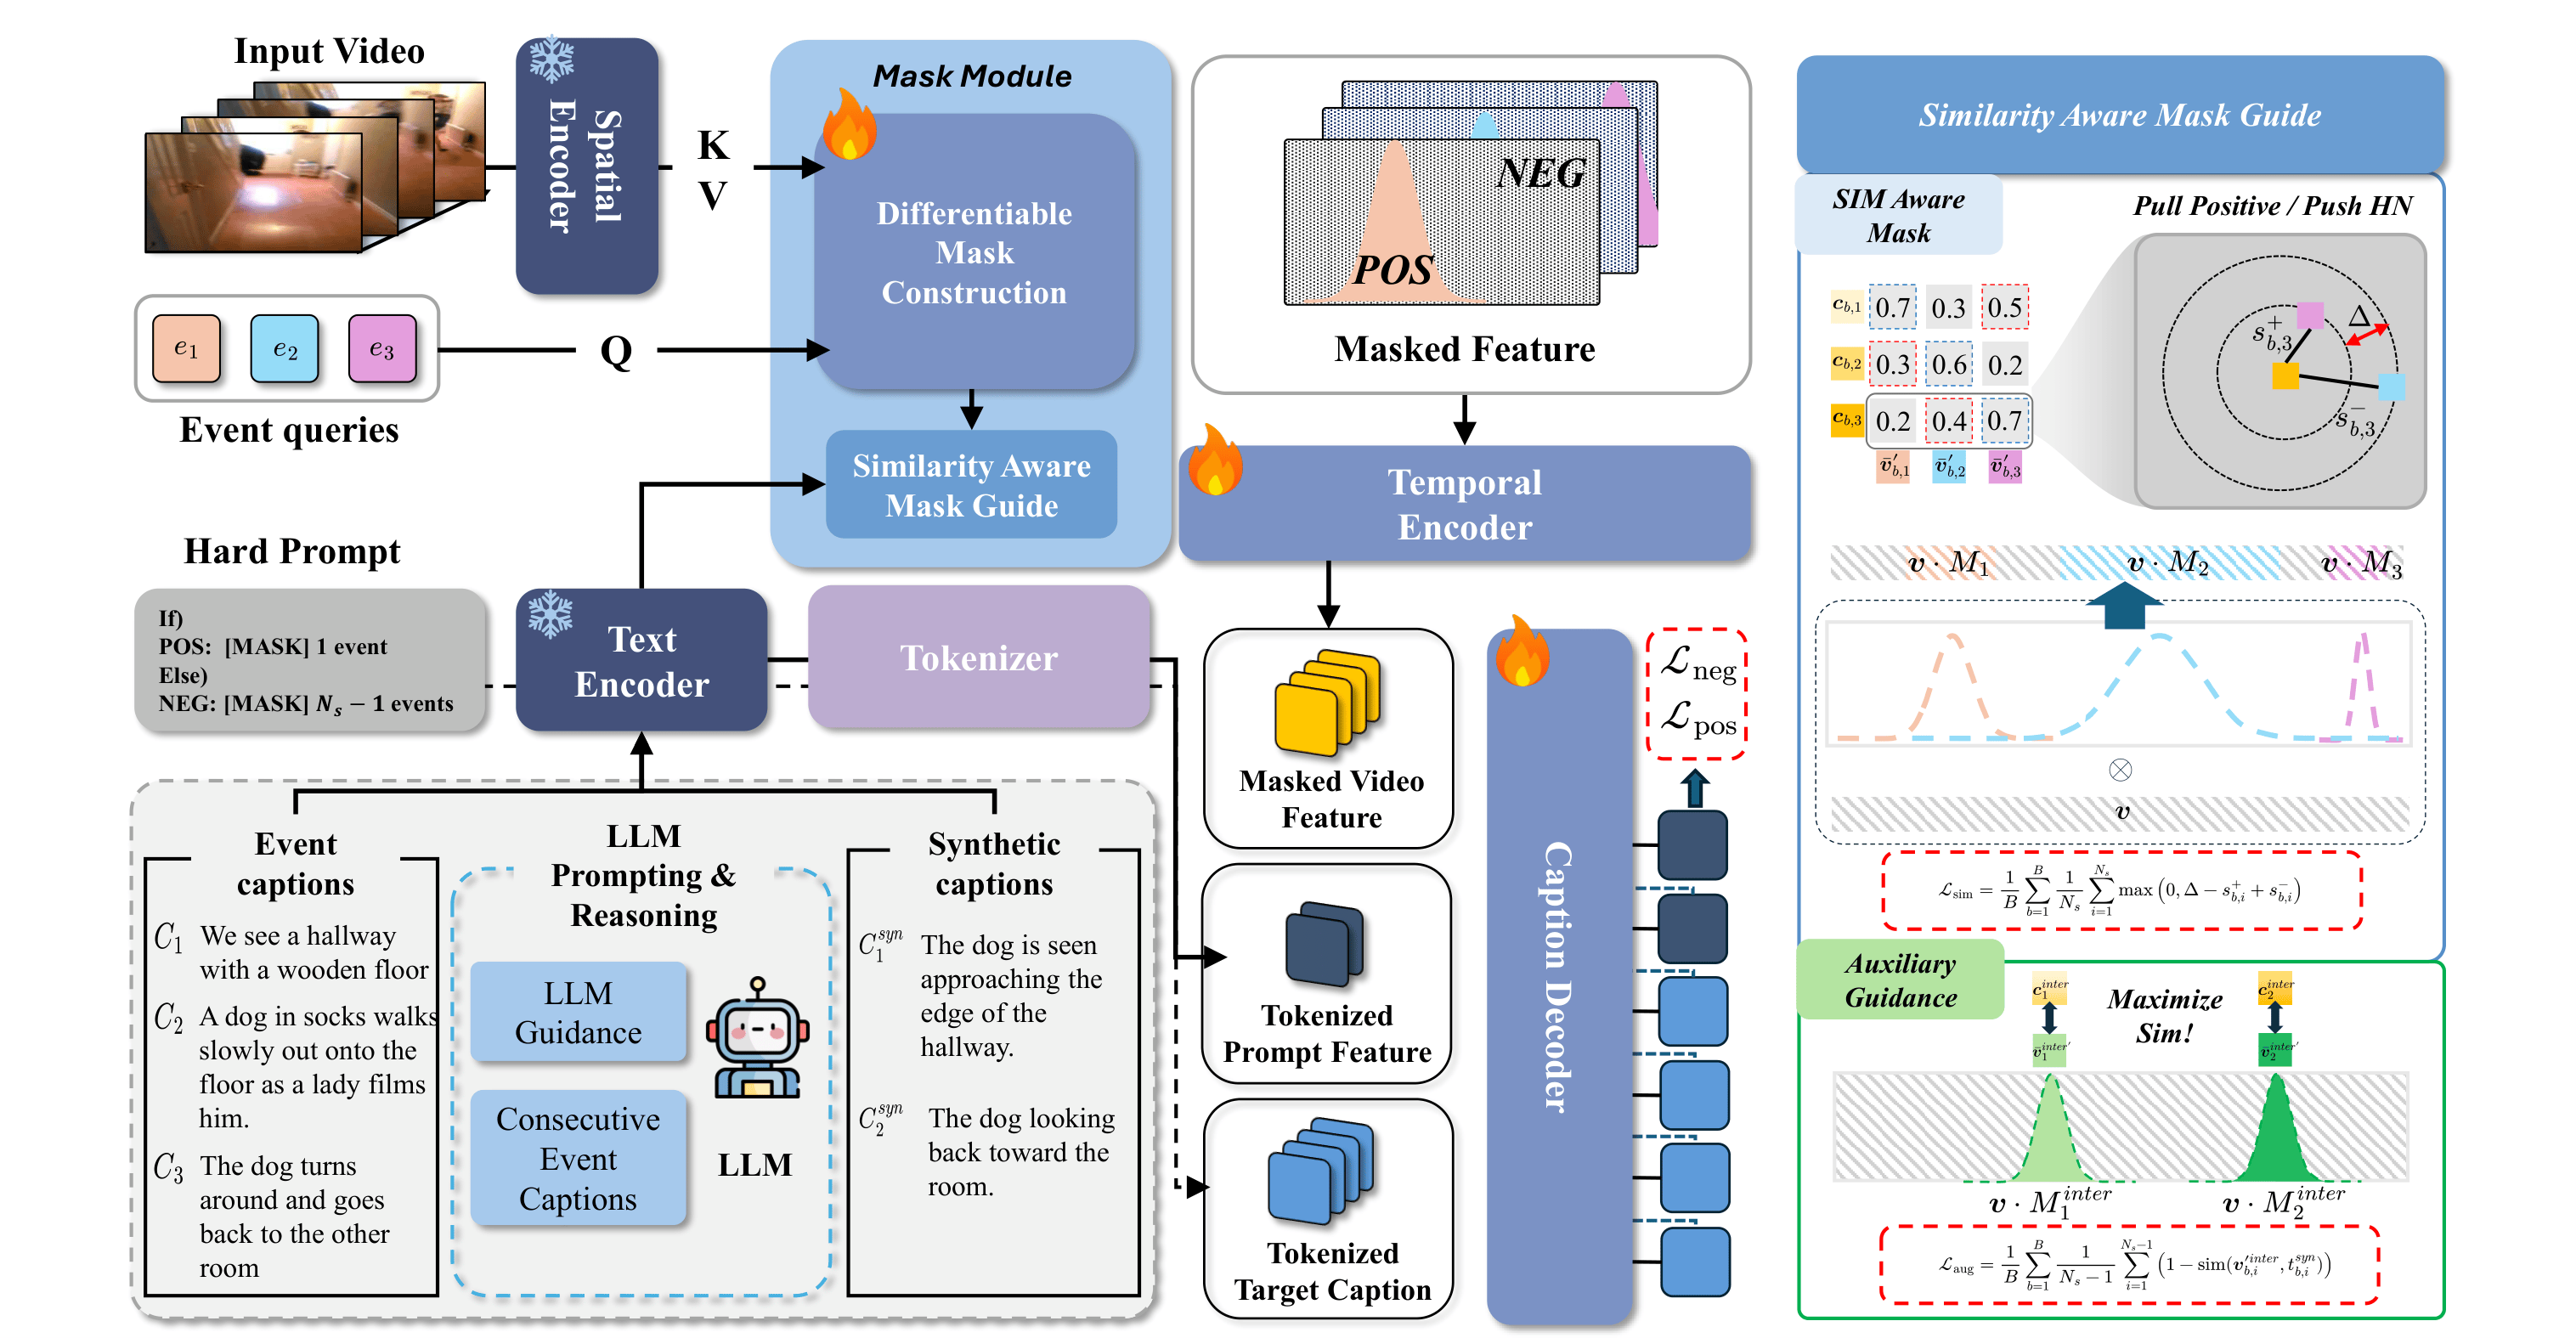
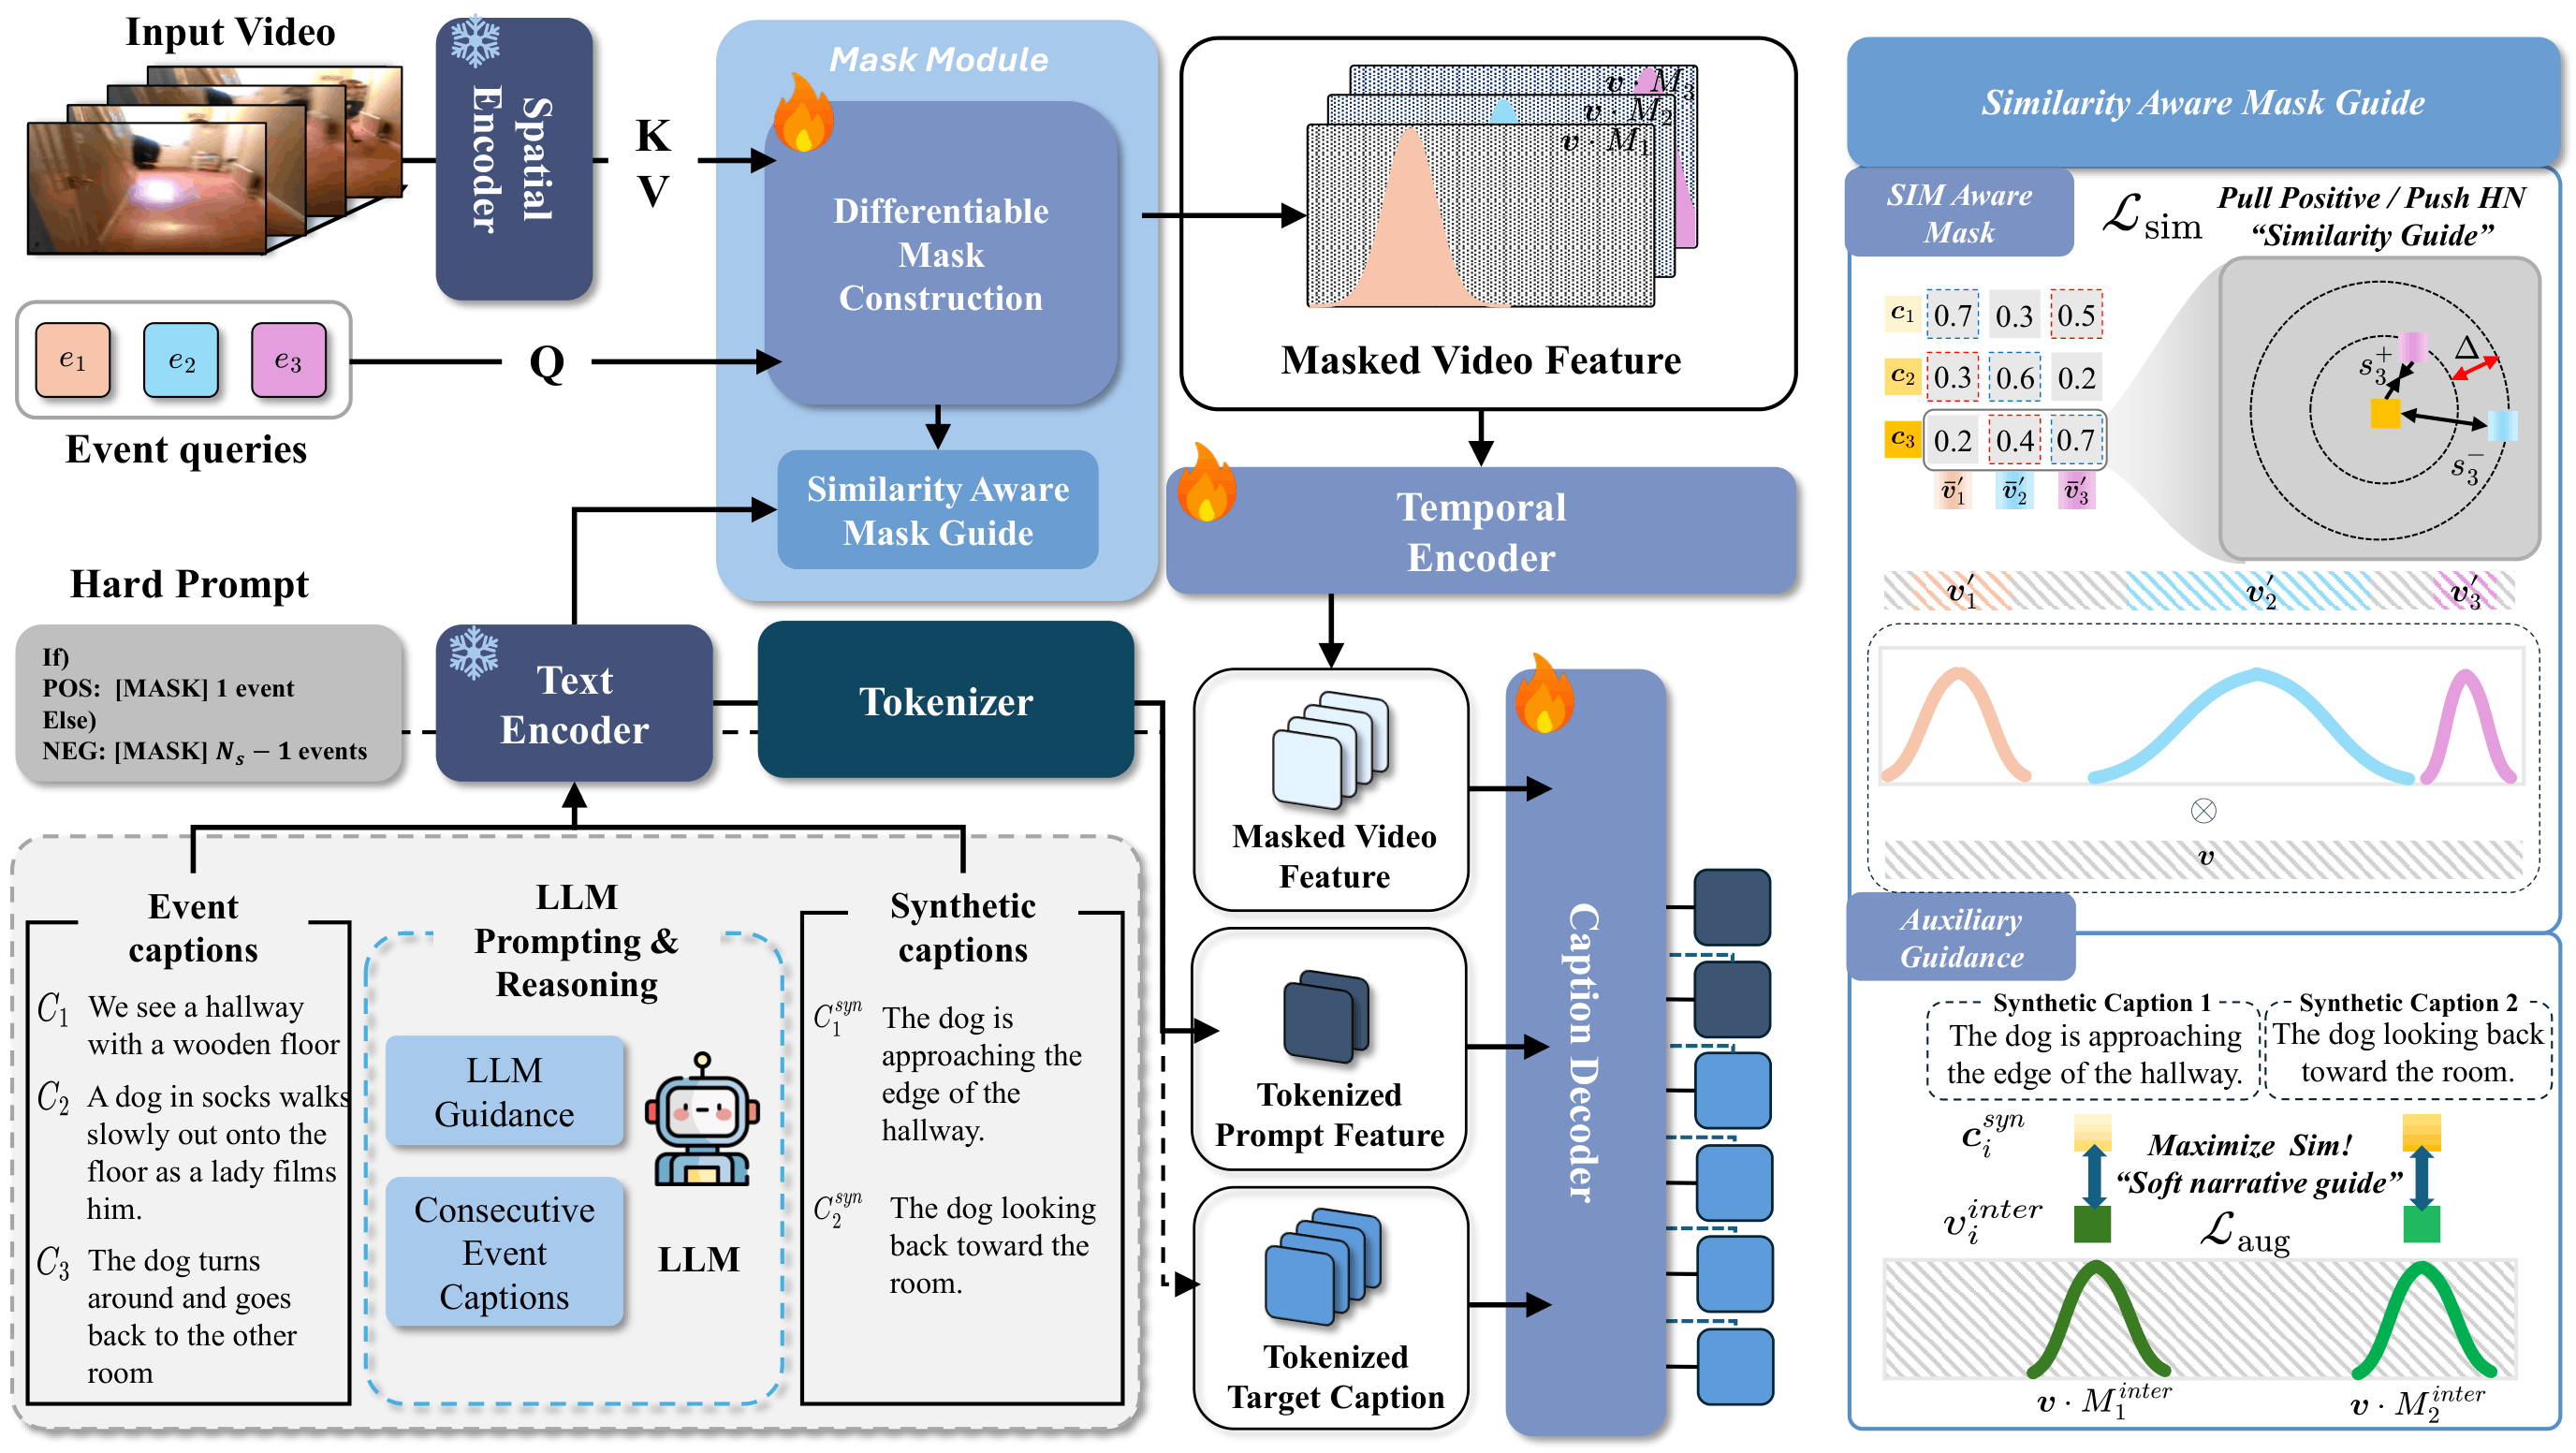
Add scholarship announcement and update profile/publication images

diff --git a/_news/announcement_8.md b/_news/announcement_8.md
@@ -1,0 +1,10 @@
+---
+layout: post
+date: 2026-06-05 16:11:00 -0400
+inline: true
+related_posts: false
+---
+
+I was selected as a recipient for two scholarship programs! 🥳<br>
+(1) AI SeoulTech Graduate Scholarship.<br>
+(2) Master's Scholarship for Excellence in Science & Engineering.